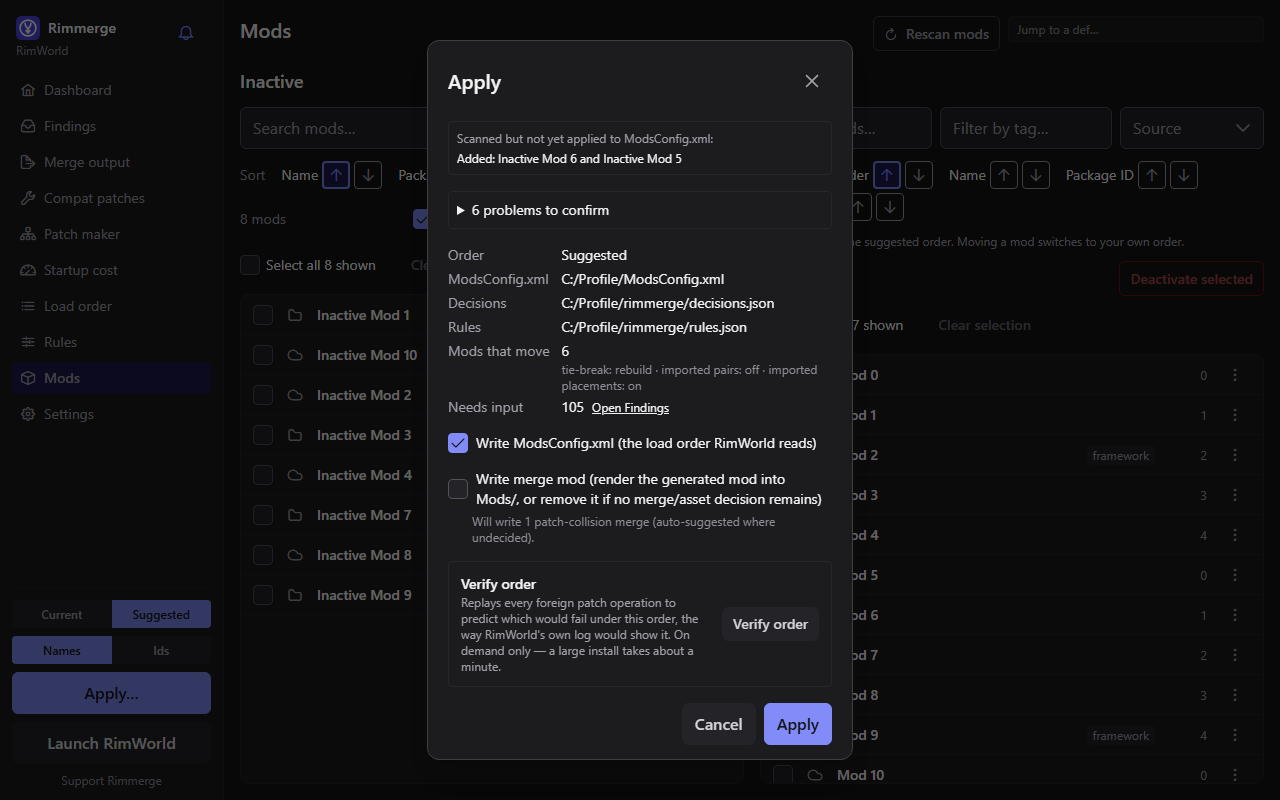
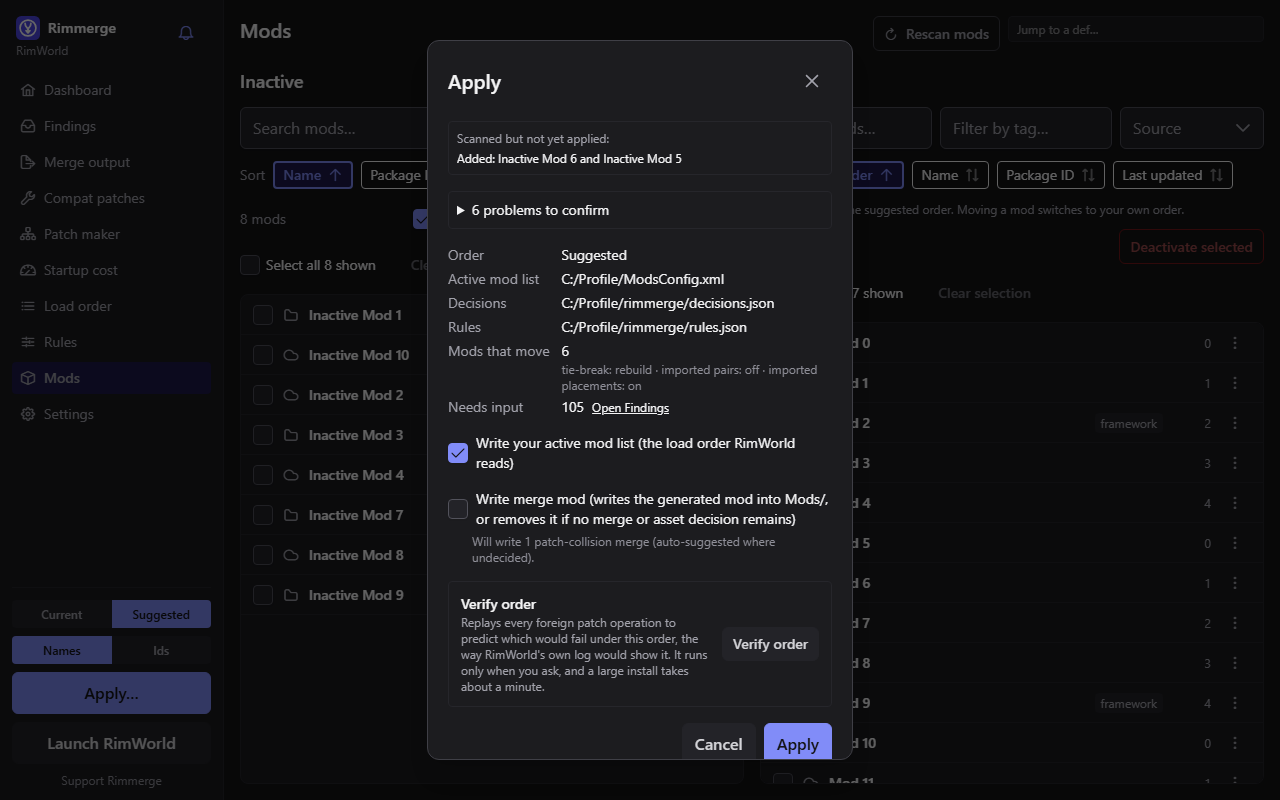
docs(desktop): refresh the Mods page screenshots and keep narrow rows readable
- Regenerate every docs screenshot for the 1.2.4 Mods page and add four:
  the Added/Removed marks, the outside-change note, the sort bar and the
  "isn't your active order yet" note. Captures are byte-identical across
  runs (Chromium raster flags in the screenshots config).
- Mods rows no longer lose the mod name or push the menu out of the list
  in a narrow pane (for example German at 1024 px, or the Last updated
  sort): the name keeps a minimum width, the date column yields, tags and
  the dependents count hide in a narrow list, and "not scanned yet"
  becomes an icon with the same accessible name. A Playwright spec pins
  the layout in English and German at both widths.

diff --git a/apps/desktop/e2e/screenshots/docs.spec.ts b/apps/desktop/e2e/screenshots/docs.spec.ts
@@ -1,6 +1,9 @@
 import path from "node:path";
 
-import { expect, type Page, test } from "@playwright/test";
+import { expect, type Locator, type Page, test } from "@playwright/test";
+// Type-only: pulls in `Window.__MODS_CONFIG_FILE__`'s ambient declaration.
+import type {} from "../../src/e2e-mock-bootstrap";
+import type { ModListDto } from "../../src/types/generated/ModListDto";
 import { loadScenario, modsPane } from "../specs/support";
 import { waitForQuietMain } from "./settle";
 
@@ -96,6 +99,56 @@ async function capture(page: Page, filePath: string): Promise<void> {
   await settle(page);
   // Playwright creates the file's parent directories.
   await page.screenshot({ path: filePath, animations: "disabled" });
+}
+
+/** Captures one element (settled first), so a doc image can show just the part it explains. */
+async function captureLocator(page: Page, target: Locator, filePath: string): Promise<void> {
+  await settle(page);
+  await target.screenshot({ path: filePath, animations: "disabled" });
+}
+
+/** Captures the smallest rectangle holding every given element, with a little air around it. */
+async function captureAround(
+  page: Page,
+  targets: readonly Locator[],
+  filePath: string,
+): Promise<void> {
+  await settle(page);
+  const boxes = await Promise.all(targets.map((target) => target.boundingBox()));
+  const found = boxes.filter((box) => box !== null);
+  if (found.length !== targets.length) {
+    throw new Error("every element of a cropped capture must be on screen");
+  }
+  const padding = 12;
+  const left = Math.max(0, Math.min(...found.map((box) => box.x)) - padding);
+  const top = Math.max(0, Math.min(...found.map((box) => box.y)) - padding);
+  const viewport = page.viewportSize();
+  if (viewport === null) {
+    throw new Error("docs screenshots need a fixed viewport");
+  }
+  const right = Math.min(
+    viewport.width,
+    Math.max(...found.map((box) => box.x + box.width)) + padding,
+  );
+  const bottom = Math.min(
+    viewport.height,
+    Math.max(...found.map((box) => box.y + box.height)) + padding,
+  );
+  await page.screenshot({
+    path: filePath,
+    animations: "disabled",
+    clip: { x: left, y: top, width: right - left, height: bottom - top },
+  });
+}
+
+/** The ids the session holds active now, in order. */
+async function activeModIds(page: Page): Promise<string[]> {
+  const list = await page.evaluate(() =>
+    window.__TAURI_INTERNALS__.invoke("list_working_mods", {
+      query: { search: null, tag: null, source: null, sort: null },
+    }),
+  );
+  return (list as ModListDto).items.map((row) => row.modId);
 }
 
 async function selectModRow(page: Page, modId: string): Promise<void> {
@@ -196,5 +249,86 @@ test.describe("docs screenshots", () => {
     await page.keyboard.press("Escape");
     await expect(page.getByTestId("apply-dialog")).toBeHidden();
     await capture(page, path.join(MODS_PAGE_DIR, "mods-page-after-rescan.png"));
+  });
+
+  test("mods page: the sort toggle, with a criterion other than the default active", async ({
+    page,
+  }) => {
+    await startScenario(page, "dark");
+    await openMods(page);
+    const activePane = modsPane(page, "active");
+    await activePane.getByTestId("mods-sort-name").click();
+    await expect(activePane.getByTestId("mods-sort-name")).toHaveAccessibleName(/Sorted by name/);
+
+    await captureLocator(
+      page,
+      activePane.getByTestId("mods-sort-bar"),
+      path.join(MODS_PAGE_DIR, "sort-toggle.png"),
+    );
+  });
+
+  test("mods page: Added and Removed marks after the mod names", async ({ page }) => {
+    await startScenario(page, "dark");
+    await openMods(page);
+    const activeIds = await activeModIds(page);
+    // Mod 8 is a plain mid-list mod the scenario lets go without a dependents warning.
+    const removedId = "mod.008";
+    expect(activeIds).toContain(removedId);
+
+    await selectModRow(page, "mod.905");
+    await page.getByTestId("activate-selected-button").click();
+    await page.getByTestId("activate-confirm-submit").click();
+    await expect(page.getByTestId("activate-confirm-dialog")).toBeHidden();
+
+    await modsPane(page, "active").getByTestId("mods-search").fill(removedId);
+    await selectModRow(page, removedId);
+    await page.getByTestId("deactivate-selected-button").click();
+    await page.getByTestId("deactivate-confirm-submit").click();
+    await expect(page.getByTestId("deactivate-confirm-dialog")).toBeHidden();
+
+    // Narrow each list to its own marked row, so both marks are in the frame.
+    await modsPane(page, "active").getByTestId("mods-search").fill("mod.905");
+    await modsPane(page, "inactive").getByTestId("mods-search").fill(removedId);
+    await expect(
+      modsPane(page, "active").getByTestId("mod-row-mod.905").getByTestId("membership-badge"),
+    ).toContainText("Added");
+    await expect(
+      modsPane(page, "inactive")
+        .getByTestId(`mod-row-${removedId}`)
+        .getByTestId("membership-badge"),
+    ).toContainText("Removed");
+    await capture(page, path.join(MODS_PAGE_DIR, "membership-marks.png"));
+  });
+
+  test("mods page: the saved list was changed outside Rimmerge", async ({ page }) => {
+    await startScenario(page, "dark");
+    await openMods(page);
+    const before = await activeModIds(page);
+
+    // What another program does: writes the file, then the window comes back into focus.
+    await page.evaluate(
+      (outside) => {
+        window.__MODS_CONFIG_FILE__ = { status: "ok", activeMods: outside };
+        window.dispatchEvent(new Event("blur"));
+        window.dispatchEvent(new Event("focus"));
+      },
+      [...before.filter((modId) => modId !== "mod.008"), "mod.906"],
+    );
+    await expect(page.getByTestId("file-changed-outside-text")).toContainText("(+1, -1)");
+    await capture(page, path.join(MODS_PAGE_DIR, "outside-change-note.png"));
+  });
+
+  test("mods page: a moved order is not your active order yet", async ({ page }) => {
+    await startScenario(page, "dark");
+    await openMods(page);
+    await page.getByTestId("mod-row-menu-mod.004").click();
+    await page.getByTestId("mod-move-top").click();
+    await expect(page.getByTestId("order-not-in-file-revert")).toBeVisible();
+
+    await captureAround(
+      page,
+      [page.getByTestId("order-not-in-file"), page.getByTestId("order-switched-note")],
+      path.join(MODS_PAGE_DIR, "order-not-applied-note.png"),
+    );
   });
 });

diff --git a/apps/desktop/src/components/mods/ModTable.vue b/apps/desktop/src/components/mods/ModTable.vue
@@ -510,7 +510,7 @@ function rowMenuLabel(modId: string): string {
           :tabindex="rovingIndex === null ? (virtualRow.index === 0 ? 0 : -1) : virtualRow.index === rovingIndex ? 0 : -1"
           :aria-current="mod.modId === lastFocusedId ? 'true' : undefined"
           :draggable="draggable"
-          class="border-border-subtle hover:bg-surface-2 focus-visible:bg-accent-soft absolute top-0 left-0 flex w-full cursor-pointer items-center gap-3 border-b px-3 text-sm focus-visible:outline"
+          class="border-border-subtle hover:bg-surface-2 focus-visible:bg-accent-soft absolute top-0 left-0 flex w-full cursor-pointer items-center gap-2 overflow-hidden border-b @lg:gap-3 px-3 text-sm focus-visible:outline"
           :class="draggingSet.has(mod.modId) ? 'opacity-50' : ''"
           :style="{
             height: `${virtualRow.size}px`,
@@ -542,8 +542,9 @@ function rowMenuLabel(modId: string): string {
           </template>
           <SourceBadge :source="mod.source" />
           <span
-            class="text-text flex-1 truncate font-medium"
+            class="text-text min-w-12 flex-1 truncate font-medium"
             :title="modLabel.titleFor(mod.modId)"
+            :data-testid="`mod-row-name-${mod.modId}`"
           >{{ modLabel.label(mod.modId) }}</span>
           <MembershipBadge :mark="mod.membership" />
           <span
@@ -553,24 +554,40 @@ function rowMenuLabel(modId: string): string {
           >{{ t("mods.table.missing") }}</span>
           <span
             v-else-if="showActiveColumns && mod.state.kind === 'pendingScan'"
-            class="bg-surface-2 text-text-muted shrink-0 rounded px-1.5 py-0.5 text-xs font-medium"
+            role="img"
+            class="bg-surface-2 text-text-muted inline-flex shrink-0 items-center rounded px-1.5 py-0.5 text-xs font-medium"
+            :aria-label="t('mods.table.pendingScan')"
+            :title="t('mods.table.pendingScan')"
             data-testid="mod-row-pending-scan-pill"
-          >{{ t("mods.table.pendingScan") }}</span>
+          >
+            <!-- One accessible name on this wrapper, as SourceBadge does. Narrow, the words give way to an icon; a keyboard user has no hover tooltip, so the state reaches them through this name and the pending-changes banner. -->
+            <span
+              class="hidden @md:inline"
+              aria-hidden="true"
+            >{{ t("mods.table.pendingScan") }}</span>
+            <span
+              class="@md:hidden"
+              aria-hidden="true"
+            ><span class="pi pi-clock" /></span>
+          </span>
           <span
             v-if="showUpdated"
-            class="text-text-muted w-28 shrink-0 truncate text-right text-xs"
+            class="text-text-muted w-20 min-w-0 truncate text-right text-xs @lg:w-28 @lg:shrink-0"
             :title="updatedText(mod)"
             :data-testid="`mod-row-updated-${mod.modId}`"
           >{{ updatedText(mod) }}</span>
           <template v-if="showActiveColumns">
-            <span class="flex gap-1">
+            <span
+              v-if="tagsOf(mod).length > 0"
+              class="hidden min-w-0 gap-1 overflow-hidden @md:flex"
+            >
               <span
                 v-for="tag in tagsOf(mod)"
                 :key="tag"
-                class="bg-surface-2 text-text-muted rounded px-1.5 py-0.5 text-xs"
+                class="bg-surface-2 text-text-muted shrink-0 rounded px-1.5 py-0.5 text-xs"
               >{{ tag }}</span>
             </span>
-            <span class="text-text-muted w-10 text-right text-xs">{{ hardDependentsOf(mod) ?? "—" }}</span>
+            <span class="text-text-muted hidden w-10 shrink-0 text-right text-xs @md:inline">{{ hardDependentsOf(mod) ?? "—" }}</span>
           </template>
           <Button
             v-if="rowMenu !== 'none'"

diff --git a/apps/desktop/e2e/specs/mods-row-layout.spec.ts b/apps/desktop/e2e/specs/mods-row-layout.spec.ts
@@ -1,0 +1,75 @@
+import { expect, type Page, test } from "@playwright/test";
+import { loadScenario, modsPane } from "./support";
+
+type Language = { readonly locale: "en" | "de"; readonly pendingText: RegExp };
+
+const LANGUAGES: readonly Language[] = [
+  { locale: "en", pendingText: /not scanned yet/ },
+  { locale: "de", pendingText: /noch nicht gescannt/ },
+];
+// 1024 is the narrowest width where the two lists sit side by side (`lg`).
+const WIDTHS = [1280, 1024] as const;
+const SORTS = ["loadOrder", "lastUpdated"] as const;
+
+async function chooseGerman(page: Page): Promise<void> {
+  await page.getByTestId("nav-settings").click();
+  await page.getByTestId("language-picker-select").click();
+  await page.getByRole("option", { name: "Deutsch (preview)", exact: true }).click();
+  await expect(page.locator("html")).toHaveAttribute("lang", "de");
+}
+
+/** Activates a mod without a rescan, so its row is Added and "not scanned yet". */
+async function activateWithoutRescan(page: Page, modId: string): Promise<void> {
+  await modsPane(page, "inactive").getByTestId("mods-search").fill(modId);
+  await modsPane(page, "inactive").getByTestId(`mod-row-select-${modId}`).locator("input").check();
+  await page.getByTestId("activate-selected-button").click();
+  await page.getByTestId("activate-confirm-submit").click();
+  await expect(page.getByTestId("activate-confirm-dialog")).toBeHidden();
+}
+
+/** The row's name keeps room to show (ellipsized is fine) and its menu button lies inside the row. */
+async function expectRowFits(page: Page, modId: string): Promise<void> {
+  const pane = modsPane(page, "active");
+  await pane.getByTestId("mods-search").fill(modId);
+  const row = pane.getByTestId(`mod-row-${modId}`);
+  await expect(row).toBeVisible();
+
+  const rowBox = await row.boundingBox();
+  const nameBox = await pane.getByTestId(`mod-row-name-${modId}`).boundingBox();
+  const menuBox = await pane.getByTestId(`mod-row-menu-${modId}`).boundingBox();
+  if (rowBox === null || nameBox === null || menuBox === null) {
+    throw new Error(`row ${modId} is missing its name or menu button`);
+  }
+  expect(nameBox.width).toBeGreaterThanOrEqual(40);
+  expect(menuBox.x).toBeGreaterThanOrEqual(rowBox.x);
+  expect(menuBox.x + menuBox.width).toBeLessThanOrEqual(rowBox.x + rowBox.width);
+}
+
+for (const { locale, pendingText } of LANGUAGES) {
+  for (const width of WIDTHS) {
+    test(`rows keep their name and menu inside the pane (${locale}, ${width}px)`, async ({
+      page,
+    }) => {
+      await page.setViewportSize({ width, height: 800 });
+      await loadScenario(page);
+      await page.getByTestId("welcome-card-keep").click();
+      if (locale === "de") {
+        await chooseGerman(page);
+      }
+      await page.getByTestId("nav-mods").click();
+      await activateWithoutRescan(page, "mod.905");
+
+      for (const sort of SORTS) {
+        await modsPane(page, "active").getByTestId(`mods-sort-${sort}`).click();
+        // A scanned row, and the row with the Added mark and the pending-scan pill.
+        await expectRowFits(page, "mod.004");
+        await expectRowFits(page, "mod.905");
+        await expect(page.getByTestId("membership-badge")).toBeVisible();
+        const pill = page.getByTestId("mod-row-pending-scan-pill");
+        await expect(pill).toBeVisible();
+        await expect(pill).toHaveAccessibleName(pendingText);
+        await expect(page.getByTestId("mod-row-mod.905")).toHaveAccessibleName(pendingText);
+      }
+    });
+  }
+}

diff --git a/apps/desktop/e2e/screenshots/playwright.config.ts b/apps/desktop/e2e/screenshots/playwright.config.ts
@@ -10,6 +10,9 @@ import { defineConfig } from "@playwright/test";
 // `RIMMERGE_DOCS_SCREENSHOTS=1`; each spec skips without its own variable.
 // Same mock-IPC tier and same dedicated port (5183, `--strictPort`) as
 // `e2e/playwright.config.ts`, so never run the two at once.
+// The launch flags keep Chromium's rasterizer from varying between runs:
+// without them a few rounded-border pixels of the docs images flipped by one
+// colour level from run to run, so two runs did not write identical files.
 export default defineConfig({
   testDir: ".",
   testMatch: /.*\.spec\.ts/,
@@ -29,5 +32,15 @@ export default defineConfig({
     reuseExistingServer: false,
     cwd: "../..",
   },
-  projects: [{ name: "chromium", use: { browserName: "chromium" } }],
+  projects: [
+    {
+      name: "chromium",
+      use: {
+        browserName: "chromium",
+        launchOptions: {
+          args: ["--disable-partial-raster", "--disable-lcd-text", "--disable-threaded-animation"],
+        },
+      },
+    },
+  ],
 });

diff --git a/docs/desktop.md b/docs/desktop.md
@@ -254,7 +254,8 @@ search, tag and source filters, and it only changes what you see: it never
 changes the load order, a pending edit or `ModsConfig.xml`, and it is not
 saved (it is kept while the page stays open and starts over when another
 project is loaded). While the sort is Last updated, each row also shows its
-date. While Active is sorted by anything other than Load order, each of its
+date (shortened when a narrow list runs out of room; hover it for the full
+date). While Active is sorted by anything other than Load order, each of its
 rows also shows its load-order position (`#12`), so the sort cannot be
 mistaken for the order.
 
@@ -349,8 +350,8 @@ outside Rimmerge (the outside-change note's own action covers that case). See
 on your computer carries a small mark. An Active row the saved list does not
 have is **Added** (Apply will add it), and an Inactive row the saved list still
 has is **Removed** (Apply will remove it). The mark has an icon and a word, and
-its tooltip says what Apply does, so it is never colour alone; it sits beside
-the source icon. A mod counts as the same mod with or without its `_steam`
+its tooltip says what Apply does, so it is never colour alone; it sits after
+the mod name. A mod counts as the same mod with or without its `_steam`
 suffix, and a reorder alone never makes a mark. "Removed" means a mod that is
 installed and still in the saved list: it stays easy to find in Inactive until
 you Apply or activate it again. A mod that is in the saved list but not
@@ -432,6 +433,27 @@ Selecting inactive mods to activate:
 A move leaves an order to apply, and says the page now uses your own order:
 
 ![After moving a mod](screenshots/mods-page/moved-order.png)
+
+The two notes a move raises, up close: the order is not your active order yet
+(with Apply and Revert to your saved active order), and the page now uses your
+own order (with View suggested):
+
+![The notes after a move: This isn't your active order yet, and Now using your own order](screenshots/mods-page/order-not-applied-note.png)
+
+One button per criterion sorts a list; the active one shows its direction:
+
+![The sort buttons above the Active list, Name sorted A to Z](screenshots/mods-page/sort-toggle.png)
+
+Rows that differ from the saved active mod list carry an Added or Removed mark
+after their name (each list is narrowed to its marked row here):
+
+![An Added row in Active and a Removed row in Inactive](screenshots/mods-page/membership-marks.png)
+
+When the saved list is changed outside Rimmerge, a note says so and offers the
+file's list; the marks follow the file, so the mod the file adds shows as
+Removed in Inactive and the mod it lacks as Added in Active:
+
+![The note: Your active mod list was changed outside Rimmerge](screenshots/mods-page/outside-change-note.png)
 
 Activating pulls in dependencies on request:
 

diff --git a/docs/screenshots/README.md b/docs/screenshots/README.md
@@ -5,10 +5,12 @@ e2e scenario's invented mods) at 1280x800, light theme, with the first-run
 notice dismissed, the recommended rules imported (step 1 done), Suggested
 selected and Apply as the current step.
 
-The `mods-page/` images show the Mods page's activate/deactivate and
-rescan flows, including the Apply dialog, as embedded in
-[`docs/desktop.md`](../desktop.md). They are mock-tier captures at the
-same size, dark theme.
+The `mods-page/` images show the Mods page's activate/deactivate, move and
+rescan flows, including the Apply dialog, the sort buttons, the Added and
+Removed marks, the outside-change note and the "This isn't your active order
+yet." note, as embedded in [`docs/desktop.md`](../desktop.md). They are
+mock-tier captures at the same size, dark theme; `sort-toggle.png` and
+`order-not-applied-note.png` are crops of the page.
 
 Every image here is generated by
 `apps/desktop/e2e/screenshots/docs.spec.ts`, which drives the mock-IPC

diff --git a/apps/desktop/CLAUDE.md b/apps/desktop/CLAUDE.md
@@ -274,7 +274,7 @@ of that command surface — no direct filesystem or process access outside
   pending** (the call can wait behind a long command such as verify, and a tick per
   interval would queue). A failed poll is ignored. Each `ModListRowDto` carries
   `membership` (`none`/`added`/`removed`, by base id), drawn by `MembershipBadge.vue`
-  beside the source badge (icon, word and tooltip, never colour alone). `FileChangeNote.vue`
+  after the mod name (icon, word and tooltip, never colour alone). `FileChangeNote.vue`
   on the Mods page shows two notes: the outside change (plain words, no file name; a
   membership change is the `(+N, -M)` sentence, a `reordered` change its own; each has a
   whole-sentence key with and without "Your pending changes are kept.", chosen by
